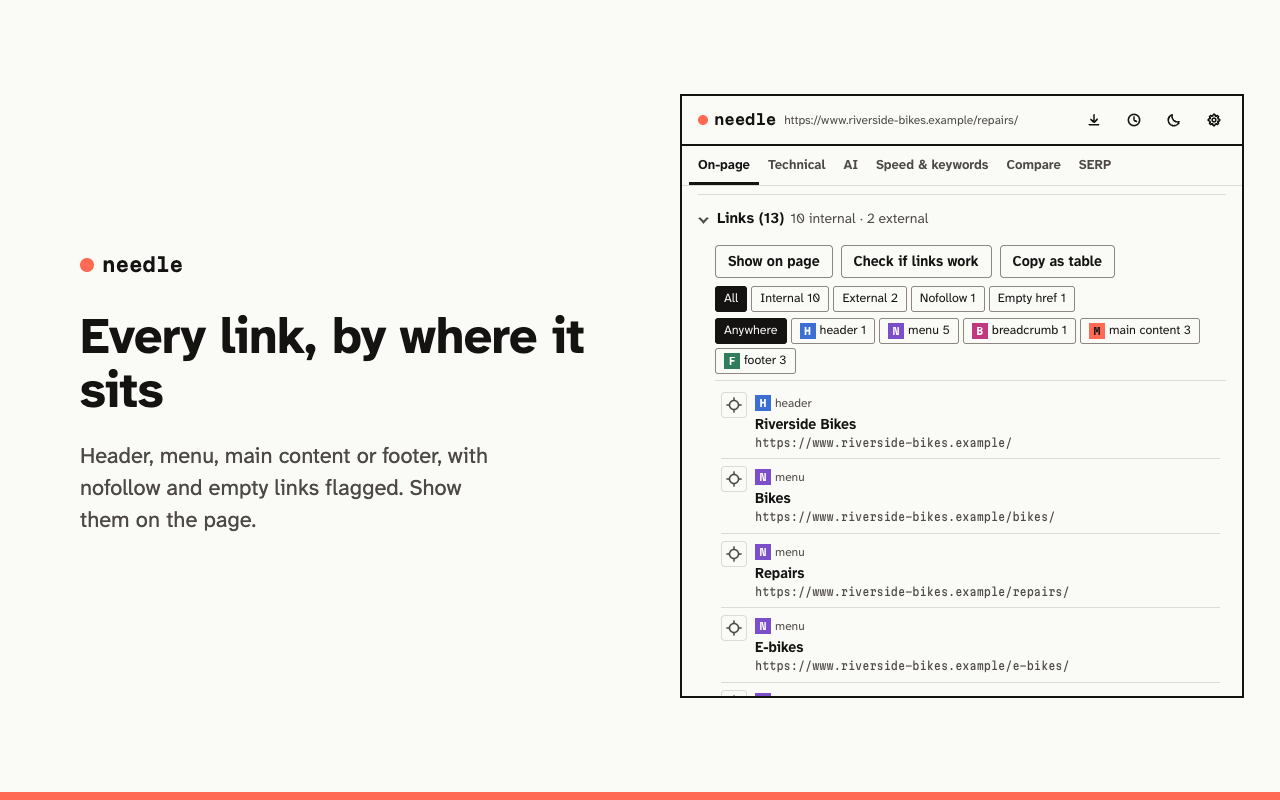
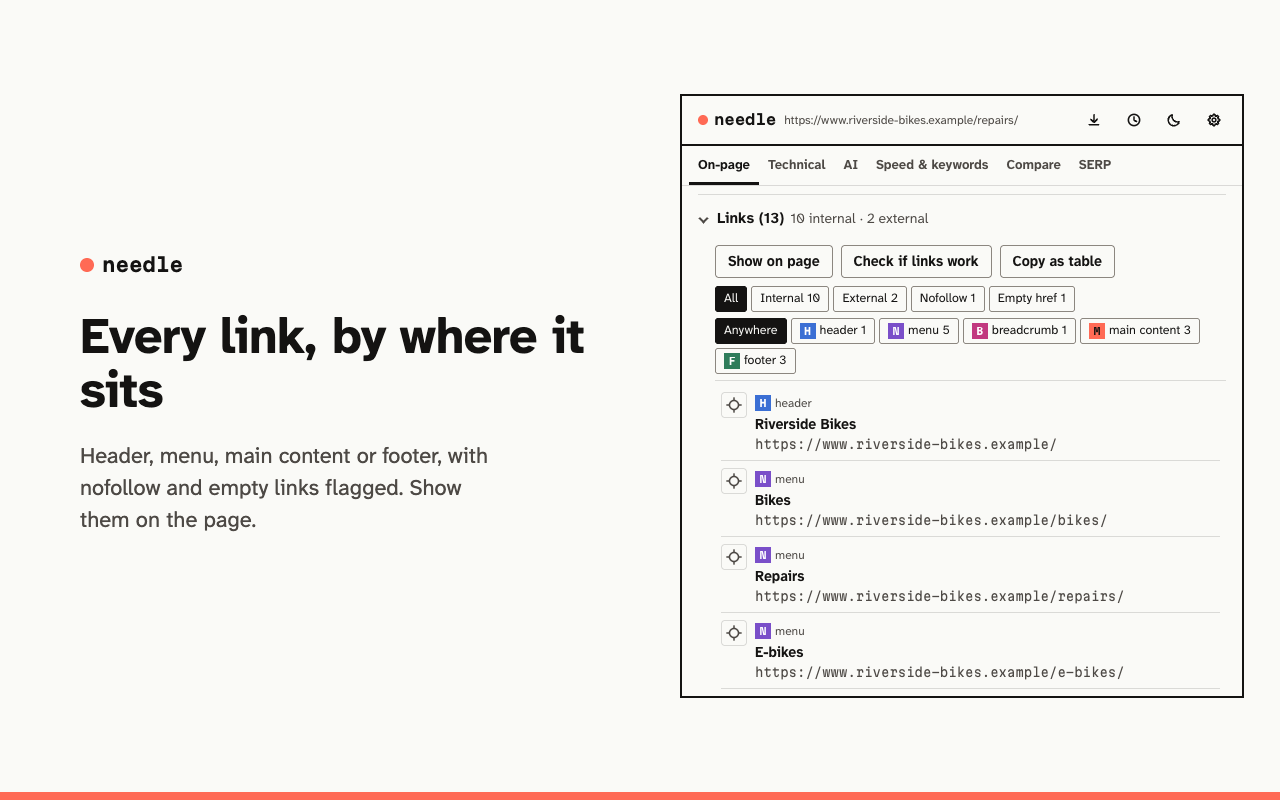
1.0.1: changelog for the review round; store screenshots 2 and 4 show the new UI

Changed region(s): [[0.5625, 0.5312, 0.875, 0.875]]

diff --git a/CHANGELOG.md b/CHANGELOG.md
@@ -11,7 +11,16 @@
 - **Structured data, suggestions:** Article is no longer suggested on a profile, about or contact page. A home page with a Person (a personal site) no longer gets an Organization suggestion; without either, the suggestion is "Organization or Person".
 - **Hreflang:** after "Check the alternates", alternates with problems (no return link, an error, a redirect, noindex) appear in Fix this first.
 - **Language chooser:** a page that is its own x-default and links to every language version no longer gets "Only N words of main content".
-- **Title and description:** a width close to Google's limit that still fits is shown neutrally as "near the limit"; only a width that gets cut off is marked as a problem.
+- **Title and description:** a width close to Google's limit that still fits is shown neutrally as "near the limit"; only a width that gets cut off is marked as a problem. The findings, the score and the report follow the pixel width as well.
+- **Campaign links:** a page opened with `?utm_…`, `gclid` or `fbclid` is the same page. It no longer looks "canonicalized away", and its hreflang links are not reported as broken.
+- **Hreflang:** "Check the alternates" says when only the first 20 were checked, runs once at a time, and shows each URL as the page wrote it. Language codes stay on one line in the tables.
+- **Structured data:** a Q&A question may have suggested answers only, and an image may name its file in `contentUrl`. With several nested items, each message names the item it is about.
+- **Images:** the "Exact size" rule in Settings compares the largest file in `srcset`, and a `srcset` without spaces after its commas is read correctly.
+- **Wording and polish:**
+  - Network failures read "could not connect" instead of "Failed to fetch".
+  - The side panel no longer jumps when the server check returns.
+  - Refresh and "Try again" keep keyboard focus.
+  - Link URLs are easier to read.
 
 ## 1.0.0 (20 November 2026)
 
